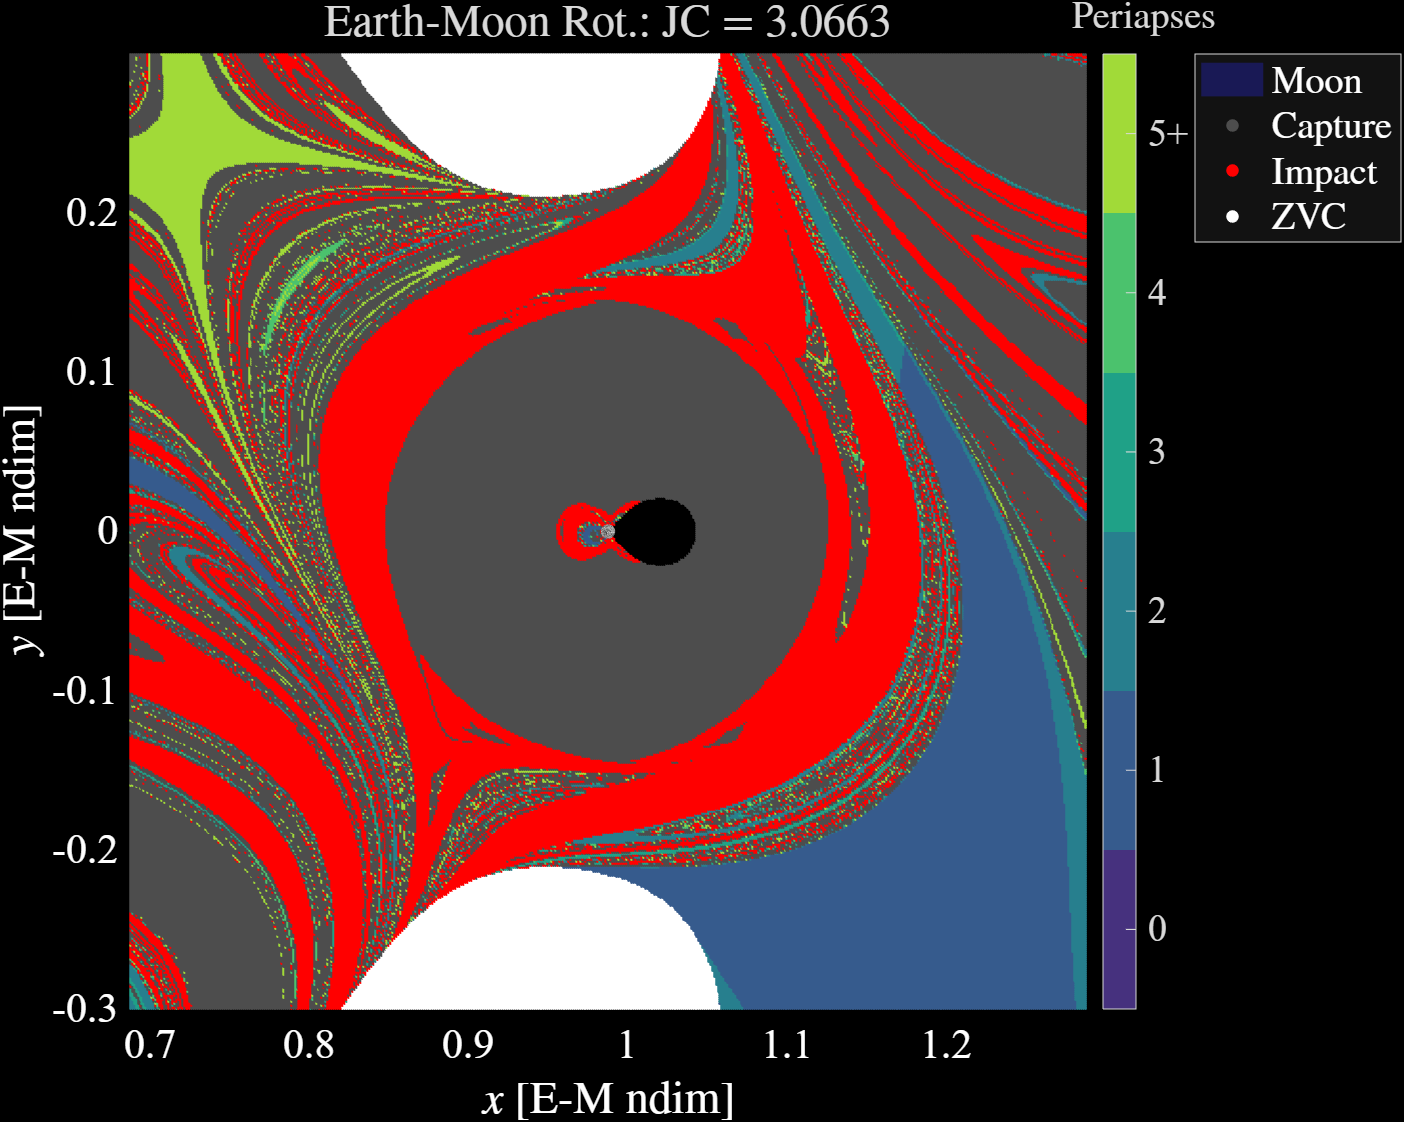
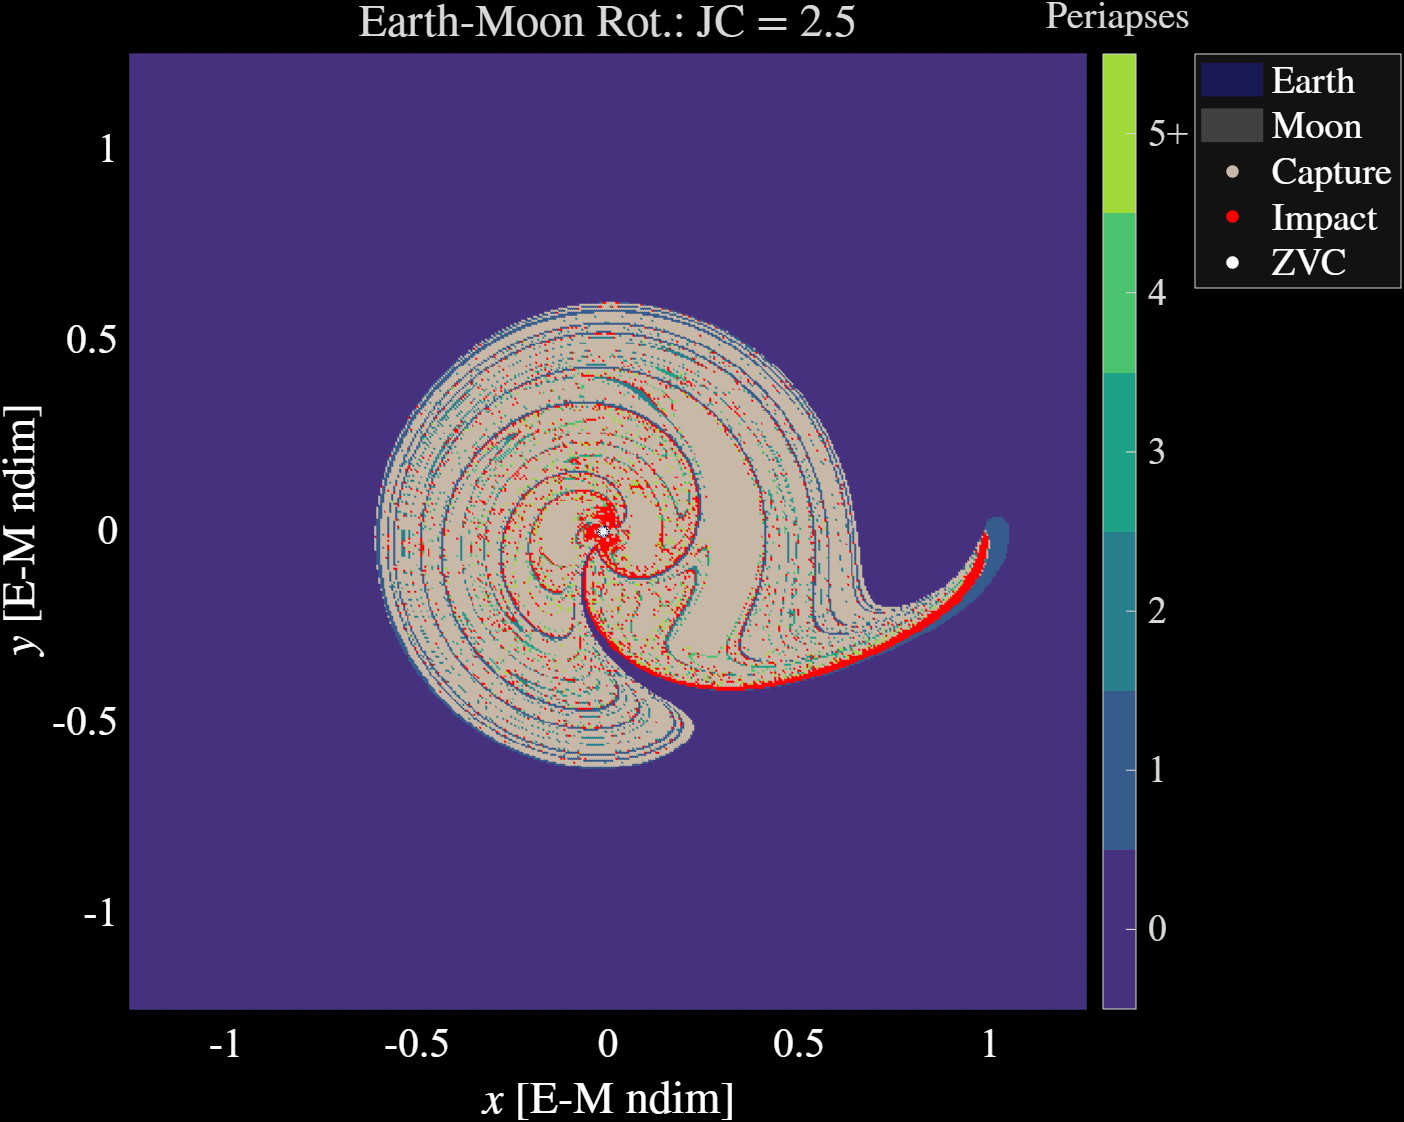
Updated EscapeCR3BP script

diff --git a/EscapeCR3BP.m b/EscapeCR3BP.m
@@ -1,35 +1,34 @@
 %%% EscapeCR3BP.jl
 %%% Jonathan LeFevre Richmond
 %%% C: 16 June 2026
-%%% U: 18 June 2026
+%%% U: 25 June 2026
 
 clear
 
 %% Import Map Data
-volumeData = load('../PhDScripts/Output/ApseMaps/CR3BPJCVolume_1_peri_pro_500_2.8_3.1.mat');
-
-mapsData = load('../PhDScripts/Output/ApseMaps/TestMap.mat');
-map = mapsData.map;
-primary = map.primary;
-switch map.grade
-    case "pro"
-        grade = "prograde";
-    case "retro"
-        grade = "retrograde";
-end
-switch map.apse
-    case "peri"
-        apse = "periapsis";
-    case "apo"
-        apse = "apoapsis";
-end
-JC = map.JC;
-disp(primary+"-centered "+grade+" "+apse+" map: JC = "+JC)
-
-n = size(map.flags, 1);
-xGrid = map.q(1,:);
-yGrid = map.q(2,:);
-flags = reshape(map.flags, 1, n^2);
+% mapsData = load('../PhDScripts/Output/ApseMaps/CR3BP_1_peri_pro_200_1.0.mat');
+% mapFields = fieldnames(mapsData);
+% map = mapsData.(mapFields{1});
+% primary = map.primary;
+% switch map.grade
+%     case "pro"
+%         grade = "prograde";
+%     case "retro"
+%         grade = "retrograde";
+% end
+% switch map.apse
+%     case "peri"
+%         apse = "periapsis";
+%     case "apo"
+%         apse = "apoapsis";
+% end
+% JC = map.JC;
+% disp(primary+"-centered "+grade+" "+apse+" map: JC = "+JC)
+% 
+% n = size(map.flags, 1);
+% xGrid = map.q(1,:);
+% yGrid = map.q(2,:);
+% flags = reshape(map.flags, 1, n^2);
 
 %% Earth-Moon Data
 gmE = 3.9860043543609593E5; % Earth gravitational parameter [km^3/s^2]
@@ -139,46 +138,45 @@ RSoIE = 0.09877*lstarSE; % Earth sphere of influence radius [km]
 
 %% Colormap
 colorMap = viridis(6); % Escape
-colorMap(7,:) = 0.3*[1, 1, 1]; % Capture
+colorMap(7,:) = [0.78, 0.72, 0.66]; % Capture
 colorMap(8,:) = [1, 0, 0]; % Impact
-% colorMap(8,:) = 0.3*[1, 1, 1]; % Impact
+% colorMap(8,:) = [0.78, 0.72, 0.66]; % Impact
 colorMap(9,:) = [0, 0, 0]; % Invalid apse
 colorMap(10,:) = [1, 1, 1]; % ZVC
 
 %% Map
-fig1 = figure("Position", [200 100 1200 750]);
-hold on
-scatter(xGrid, yGrid, 1.75, colorMap(flags+1,:), 'filled', 'HandleVisibility', 'off')
-Earth = plot3DBody("Earth", RE/lstarEM, [-muEM, 0, 0]);
-set(Earth, 'DisplayName', "Earth")
-Moon = plot3DBody("Moon", Rm/lstarEM, [1-muEM, 0, 0]);
-set(Moon, 'DisplayName', "Moon")
-scatter(nan, nan, 20, colorMap(7,:), 'filled', 'DisplayName', "Capture")
-scatter(nan, nan, 20, colorMap(8,:), 'filled', 'DisplayName', "Impact")
-scatter(nan, nan, 20, colorMap(10,:), 'filled', 'DisplayName', "ZVC")
-axis equal
-axis([-1.25 1.25 -1.25 1.25])
-% axis([1-muEM-0.3 1-muEM+0.3 -0.3 0.3])
-xlabel("$x$ [E-M ndim]", 'Interpreter', 'latex')
-ylabel("$y$ [E-M ndim]", 'Interpreter', 'latex')
-title("Earth-Moon Rot.: JC = "+JC, 'Interpreter', 'latex')
-colormap(colorMap(1:6,:))
-cb1 = colorbar;
-clim([-0.5 5.5])
-cb1.Ticks = 0:5;
-cb1.TickLabels = [string(0:4), "5+"];
-cb1.Label.String = 'Periapses';
-ylabel(cb1, "Periapses", 'Interpreter', 'latex', 'Rotation', 0, 'VerticalAlignment', 'bottom', 'HorizontalAlignment', 'center');
-cb1.Label.Position = cb1.Label.Position+[-1.5 3.1 0];
-leg1 = legend('Location', 'bestoutside', 'Interpreter', 'latex');
-drawnow;
-set(leg1.EntryContainer.NodeChildren(end).Icon.Transform.Children.Children, 'ColorData', uint8([25; 25; 85; 255]))
-set(gca, 'Color', 'k');
-view(2)
-hold off
-ax1 = gca;
-ax1.SortMethod = 'childorder';
-% exportgraphics(fig1, 'EscapeCR3BP_1.png', 'BackgroundColor', 'k')
+% fig1 = figure("Position", [200 100 1200 750]);
+% hold on
+% scatter(xGrid, yGrid, 1.75, colorMap(flags+1,:), 'filled', 'HandleVisibility', 'off')
+% Earth = plot3DBody("Earth", RE/lstarEM, [-muEM, 0, 0]);
+% set(Earth, 'DisplayName', "Earth")
+% Moon = plot3DBody("Moon", Rm/lstarEM, [1-muEM, 0, 0]);
+% set(Moon, 'DisplayName', "Moon")
+% scatter(nan, nan, 20, colorMap(7,:), 'filled', 'DisplayName', "Capture")
+% scatter(nan, nan, 20, colorMap(8,:), 'filled', 'DisplayName', "Impact")
+% scatter(nan, nan, 20, colorMap(10,:), 'filled', 'DisplayName', "ZVC")
+% axis equal
+% axis([-1.25 1.25 -1.25 1.25])
+% % axis([1-muEM-0.3 1-muEM+0.3 -0.3 0.3])
+% xlabel("$x$ [E-M ndim]", 'Interpreter', 'latex')
+% ylabel("$y$ [E-M ndim]", 'Interpreter', 'latex')
+% title("Earth-Moon Rot.: JC = "+JC, 'Interpreter', 'latex')
+% colormap(colorMap(1:6,:))
+% cb1 = colorbar;
+% clim([-0.5 5.5])
+% cb1.Ticks = 0:5;
+% cb1.TickLabels = [string(0:4), "5+"];
+% ylabel(cb1, "Periapses", 'Interpreter', 'latex', 'Rotation', 0, 'VerticalAlignment', 'bottom', 'HorizontalAlignment', 'center');
+% cb1.Label.Position = cb1.Label.Position+[-2.3 3.1 0];
+% leg1 = legend('Location', 'bestoutside', 'Interpreter', 'latex');
+% drawnow;
+% set(leg1.EntryContainer.NodeChildren(end).Icon.Transform.Children.Children, 'ColorData', uint8([25; 25; 85; 255]))
+% set(gca, 'Color', 'k');
+% view(2)
+% hold off
+% ax1 = gca;
+% ax1.SortMethod = 'childorder';
+% % exportgraphics(fig1, 'EscapeCR3BP_1.png', 'BackgroundColor', 'k')
 
 %% Propagators
 odeCR3BPEM = @(t,r) ODE_CR3BP(t, r, muEM);
@@ -219,3 +217,211 @@ odeOpts = odeset('RelTol', 1E-12, 'AbsTol', 1E-12);
 % ax2 = gca;
 % ax2.SortMethod = 'childorder';
 % % exportgraphics(fig2, 'EscapeCR3BP_2.png','BackgroundColor', 'k')
+
+%% Import Analysis Data
+% analysisData = load('../PhDScripts/Output/EscapeAnalysisCR3BP.mat');
+% esc0q0s = analysisData.esc0q0;
+% esc0tfs = analysisData.esc0tf;
+% esc0Es = analysisData.esc0E;
+% esc0n = length(esc0Es);
+
+%% Escape Analysis
+% norms = vecnorm(esc0q0s(1:2,:));
+% mask = norms <1;
+% Es_filt = esc0Es(mask);
+% q0s_filt = esc0q0s(:, mask);
+% tfs_filt = esc0tfs(mask);
+% nFilt = sum(mask);
+% E_min = min(Es_filt);
+% E_max = max(Es_filt);
+% clear esc0q0s esc0tfs esc0Es mask
+
+%% Escape Analysis Figures
+% colors = nebula(1000);
+% pointColors = zeros(nFilt, 3);
+% parfor j = 1:nFilt
+%     pointColors(j,:) = getColor(colors, Es_filt(j), [E_min, E_max]);
+% end
+% 
+% fig5 = figure("Position", [200 100 1200 750]);
+% hold on
+% color = colorMap(1,:);
+% for j = 1:nFilt
+%     q = q0s_filt(:,j);
+%     tau = tfs_filt(j);
+%     [~, rout] = mexCR3BP(q, [0 tau], muEM, 1E-12, 1E-12, 1E-10);
+%     % plot3(rout(:,1), rout(:,2), rout(:,3), 'Color', [0.5, 0.5, 0.5, 0.1], 'LineWidth', 1, 'HandleVisibility', 'off')
+%     plot3(rout(:,1), rout(:,2), rout(:,3), 'Color', [pointColors(j,:), 0.1], 'LineWidth', 1, 'HandleVisibility', 'off')   
+% end
+% % scatter3(q0s_filt(1,:), q0s_filt(2,:), q0s_filt(3,:), 1.75, color, 'filled', 'HandleVisibility', 'off')
+% scatter3(q0s_filt(1,:), q0s_filt(2,:), q0s_filt(3,:), 1.75, pointColors, 'filled', 'HandleVisibility', 'off')
+% Earth = plot3DBody("Earth", RE/lstarEM, [-muEM, 0, 0]);
+% set(Earth, 'DisplayName', "Earth")
+% Moon = plot3DBody("Moon", Rm/lstarEM, [1-muEM, 0, 0]);
+% set(Moon, 'DisplayName', "Moon")
+% scatter3(a1EM, 0, 0, 20, 'r', 'filled', 'd', 'DisplayName', "EM $L_{1}$")
+% scatter3(a2EM, 0, 0, 20, [1 0.5 0], 'filled', 'd', 'DisplayName', "EM $L_{2}$")
+% axis equal
+% axis([-1.25 1.25 -1.25 1.25])
+% grid on
+% xlabel("$x$ [E-M ndim]", 'Interpreter', 'latex')
+% ylabel("$y$ [E-M ndim]", 'Interpreter', 'latex')
+% title("Earth-Moon Rot.", 'Interpreter', 'latex')
+% colormap(nebula)
+% cb5 = colorbar;
+% clim([E_min E_max])
+% ylabel(cb5, "$\mathcal{E}_{esc}$ [km/s]", 'Interpreter', 'latex', 'Rotation', 0, 'VerticalAlignment', 'bottom', 'HorizontalAlignment', 'center');
+% cb5.Label.Position = cb5.Label.Position+[-3 15 0];
+% leg5 = legend('Location', 'bestoutside', 'Interpreter', 'latex');
+% leg5.Position = leg5.Position+[0.08 0 0 0];
+% drawnow;
+% set(leg5.EntryContainer.NodeChildren(end).Icon.Transform.Children.Children, 'ColorData', uint8([25; 25; 85; 255]))
+% set(gca, 'Color', 'k');
+% view(2)
+% hold off
+% ax5 = gca;
+% ax5.SortMethod = 'childorder';
+% % exportgraphics(fig5, 'EscapeCR3BP_5.png','BackgroundColor', 'k')
+
+%% Import JC Volume Data
+volumeFile = 'E:/ApseMapData/CR3BPJCVolume_2_peri_retro_250_0.9_3.15.mat';
+volumeDataFile = 'CR3BPJCVolume_2_peri_retro_250_0.9_3.15.mat';
+
+% volumeFields = who('-file', volumeFile);
+% nVolume = length(volumeFields);
+% sampleData = load(volumeFile, volumeFields{1});
+% sampleFields = fieldnames(sampleData);
+% sampleMap = sampleData.(sampleFields{1});
+% nSample = size(sampleMap.flags, 1);
+% mixedJCVolume = zeros(nVolume, 1);
+% parfor j = 1:nVolume
+%     volumeData = load(volumeFile, volumeFields{j});
+%     volumeDataFields = fieldnames(volumeData);
+%     volumeMap = volumeData.(volumeDataFields{1});
+%     mixedJCVolume(j, 1) = volumeMap.JC;
+% end
+% [JCVolume, sortJCIdx] = sort(mixedJCVolume, 'descend');
+% clear mixedJCVolume
+% sortedFields = volumeFields(sortJCIdx);
+% countsVolume = zeros(nVolume, nSample^2);
+% flagsVolume = zeros(nVolume, nSample^2);
+% qVolume = zeros(6, nSample^2, nVolume);
+% parfor j = 1:nVolume
+%     volumeData = load(volumeFile, sortedFields{j});
+%     volumeDataFields = fieldnames(volumeData);
+%     volumeMap = volumeData.(volumeDataFields{1});
+%     countsVolume(j,:) = reshape(volumeMap.counts, 1, nSample^2);
+%     flagsVolume(j,:) = reshape(volumeMap.flags, 1, nSample^2);
+%     qVolume(:,:,j) = volumeMap.q;
+% end
+
+%% Save JC Volume Data
+% save(volumeDataFile, "JCVolume", "countsVolume", "flagsVolume", "qVolume", "-v7.3");
+
+%% Load JC Volume Data
+% load(volumeDataFile, "JCVolume", "flagsVolume", "qVolume");
+% nVolume = length(JCVolume);
+% nSample = sqrt(size(flagsVolume, 2));
+% disp("Successfully loaded volume data from MAT file!")
+
+%% JC Animation
+% fig3 = figure('Position', [200 100 1200 750]);
+% 
+% ax3 = gca;
+% axis(ax3, 'equal');
+% grid(ax3, 'off');
+% hold(ax3, 'on');
+% 
+% xlabel(ax3, "$x$ [E-M ndim]", 'Interpreter', 'latex')
+% ylabel(ax3, "$y$ [E-M ndim]", 'Interpreter', 'latex')
+% view(ax3, 2)
+% 
+% % [Earth, ~, ~, ~] = plot3DBodyVid(ax3, "Earth", RE/lstarEM, [-muEM, 0, 0]);
+% % set(Earth, 'DisplayName', "Earth")
+% [Moon, ~, ~, ~] = plot3DBodyVid(ax3, "Moon", Rm/lstarEM, [1-muEM, 0, 0]);
+% set(Moon, 'DisplayName', "Moon")
+% 
+% % scatSize = 1.75;
+% scatSize = 7.5;
+% hist3 = scatter(NaN(1, nSample^2), NaN(1, nSample^2), scatSize, repmat(colorMap(7,:), nSample^2, 1), 'filled', 'HandleVisibility', 'off');
+% 
+% % xlim(ax3, [-1.25 1.25])
+% % ylim(ax3, [-1.25 1.25])
+% xlim(ax3, [1-muEM-0.3 1-muEM+0.3])
+% ylim(ax3, [-0.3 0.3])
+% 
+% scatter(nan, nan, 20, colorMap(7,:), 'filled', 'DisplayName', "Capture")
+% scatter(nan, nan, 20, colorMap(8,:), 'filled', 'DisplayName', "Impact")
+% scatter(nan, nan, 20, colorMap(10,:), 'filled', 'DisplayName', "ZVC")
+% colormap(colorMap(1:6,:))
+% cb3 = colorbar;
+% clim([-0.5 5.5])
+% cb3.Ticks = 0:5;
+% cb3.TickLabels = [string(0:4), "5+"];
+% ylabel(cb3, "Periapses", 'Interpreter', 'latex', 'Rotation', 0, 'VerticalAlignment', 'bottom', 'HorizontalAlignment', 'center');
+% cb3.Label.Position = cb3.Label.Position+[-2.3 3.1 0];
+% leg3 = legend('Location', 'bestoutside', 'Interpreter', 'latex');
+% % drawnow;
+% % set(leg3.EntryContainer.NodeChildren(end).Icon.Transform.Children.Children, 'ColorData', uint8([25; 25; 85; 255]))
+% 
+% tit3 = annotation(fig3, 'textbox', [0.4 0.93 0.2 0.06], 'String', sprintf('JC = %.4f', JCVolume(1)), 'FontName', 'Times New Roman', 'FontSize', 18, 'Color', 'w', 'HorizontalAlignment', 'center', 'VerticalAlignment', 'middle');
+% 
+% % v = VideoWriter('EscapeCR3BP_JCVolume_Moon_peri_retro.mp4', 'MPEG-4');
+% % v.FrameRate = 40;
+% % v.Quality = 100;
+% % open(v);
+% 
+% for j = 1:nVolume
+%     set(hist3, 'XData', qVolume(1,:,j), 'YData', qVolume(2,:,j), 'CData', colorMap(flagsVolume(j,:)+1,:));
+% 
+%     set(tit3, 'String', sprintf('JC = %.4f', JCVolume(j)));
+% 
+%     drawnow limitrate;
+%     pause(0.1)
+%     % writeVideo(v, getframe(fig3));
+% end
+% 
+% % writeVideo(v, getframe(fig3));
+% % close(v);
+
+%% Area Analysis
+% esc0 = zeros(nVolume, 1);
+% esc1 = zeros(nVolume, 1);
+% esc2 = zeros(nVolume, 1);
+% esc3 = zeros(nVolume, 1);
+% esc4 = zeros(nVolume, 1);
+% esc5 = zeros(nVolume, 1);
+% capture = zeros(nVolume, 1);
+% impact = zeros(nVolume, 1);
+% parfor j = 1:nVolume
+%     esc0(j,1) = length(find(flagsVolume(j,:) == 0));
+%     esc1(j,1) = length(find(flagsVolume(j,:) == 1));
+%     esc2(j,1) = length(find(flagsVolume(j,:) == 2));
+%     esc3(j,1) = length(find(flagsVolume(j,:) == 3));
+%     esc4(j,1) = length(find(flagsVolume(j,:) == 4));
+%     esc5(j,1) = length(find(flagsVolume(j,:) == 5));
+%     capture(j,1) = length(find(flagsVolume(j,:) == 6));
+%     impact(j,1) = length(find(flagsVolume(j,:) == 7));
+% end
+% escape = esc0+esc1+esc2+esc3+esc4+esc5;
+
+% fig4 = figure("Position", [200 100 1200 750]);
+% hold on
+% plot(JCVolume, 100.*esc0./nSample^2, 'Color', colorMap(1,:), 'DisplayName', "Direct Esc.")
+% plot(JCVolume, 100.*esc1./nSample^2, 'Color', colorMap(2,:), 'DisplayName', "Esc. +1")
+% plot(JCVolume, 100.*esc2./nSample^2, 'Color', colorMap(3,:), 'DisplayName', "Esc. +2")
+% plot(JCVolume, 100.*esc3./nSample^2, 'Color', colorMap(4,:), 'DisplayName', "Esc. +3")
+% plot(JCVolume, 100.*esc4./nSample^2, 'Color', colorMap(5,:), 'DisplayName', "Esc. +4")
+% plot(JCVolume, 100.*esc5./nSample^2, 'Color', colorMap(6,:), 'DisplayName', "Esc. +$\geq$5")
+% plot(JCVolume, 100.*escape./nSample^2, 'w:', 'DisplayName', "Total Esc.")
+% % xlim([2.95 3.15])
+% xlabel("JC [E-M ndim]", 'Interpreter', 'latex')
+% ylabel("Area [\%]", 'Interpreter', 'latex')
+% title("Area Comparison", 'Interpreter', 'latex')
+% leg4 = legend('Location', 'bestoutside', 'Interpreter', 'latex');
+% set(gca, 'Color', 'k');
+% view(2)
+% hold off
+% ax4 = gca;
+% ax4.SortMethod = 'childorder';
+% % exportgraphics(fig4, 'EscapeCR3BP_4.png', 'BackgroundColor', 'k')

diff --git a/getColor.m b/getColor.m
@@ -1,0 +1,18 @@
+%%% getColor
+%%% Jonathan LeFevre Richmond
+%%% C: 24 June 2026
+
+function color = getColor(colors, value, limits)
+
+values = linspace(limits(1), limits(2), 1000);
+i = 1;
+while (i < 1000) && (values(i) < value)
+    i = i+1;
+end
+i = min(i, 999);
+v2 = values(i+1);
+v1 = values(i);
+c2 = colors(i+1,:);
+c1 = colors(i,:);
+
+color = max(0, min(1, c1+(((value-v1)*(c2-c1))/(v2-v1))));